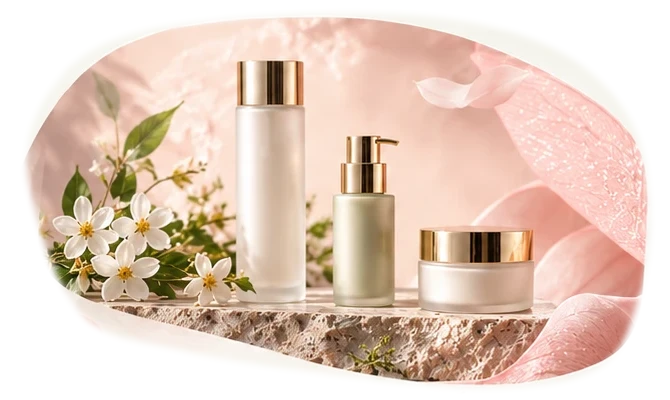
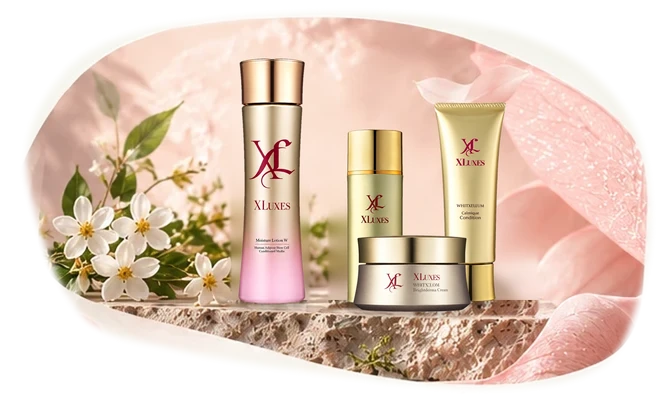
化粧品画像をXLuxes製品写真に差し替え
トップの商品写真・事業紹介の丸型写真・ショップとコラムの写真の3点を、
架空の化粧品からXLuxes製品（ローション・WHITXTION・WHITXELLUM・
WHITXLOM・WHITXIDE・リップグロス）の合成写真に差し替え。
背景・石・花の演出はそのまま。トップ画像の代替テキストも実製品に合わせて更新。

Claude-Session: https://claude.ai/code/session_0169FF9Cmr7rk1wxSq3dh3VS

Changed region(s): [[0.3284, 0.12, 0.806, 0.81]]

diff --git a/src/CorporateMedia.tsx b/src/CorporateMedia.tsx
@@ -114,7 +114,7 @@ export function HeroPhotographs({ geometry }: { geometry: SceneGeometry }) {
   </div>;
 }
 export function HeroProducts() {
-  return <CorporatePhoto className="ref-hero-products" src={corporateImages.products} alt="化粧水・クリーム・チューブの化粧品イメージ。正式商品ではありません" fit="contain" eager />;
+  return <CorporatePhoto className="ref-hero-products" src={corporateImages.products} alt="XLuxesの化粧水・クリーム・美容液などの化粧品" fit="contain" eager />;
 }
 export function BusinessPhotographs({ geometry, flower = corporateImages.flower, harvest = corporateImages.harvest }: { geometry: SceneGeometry; flower?: string; harvest?: string }) {
   const id = useId();
